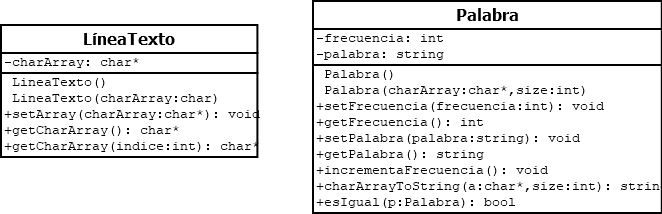
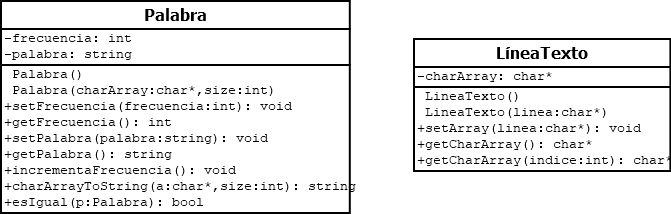
Update material.

Changed region(s): [[0.0, 0.0, 1.0, 1.0]]

diff --git a/practica1/Codigo/Palabra.cpp b/practica1/Codigo/Palabra.cpp
@@ -28,29 +28,11 @@ int Palabra::getFrecuencia()
 void Palabra::setPalabra(std::string palabra)
 {
     this->palabra = palabra;
-    setNumElem(palabra);
 }
 
 std::string Palabra::getPalabra()
 {
     return palabra;
-}
-
-// Metodos setter y getter para la variable "numElem"
-void Palabra::setNumElem(std::string palabra)
-{
-    // Declaracion de variable auxiliar
-    int contAux = 0;
-    // Bucle para contar la cantidad de letras en la cadena
-    for(char c : palabra)  {
-        contAux++;
-    }
-    this->numElem = contAux;
-}
-
-int Palabra::getNumElem()
-{
-    return numElem;
 }
 
 // Metodo que incrementa la frecuencia de la "Palabra" en 1

diff --git a/practica1/Codigo/Palabra.h b/practica1/Codigo/Palabra.h
@@ -5,7 +5,6 @@
 class Palabra
 {
     private:
-        int numElem;
         int frecuencia;
         std::string palabra;
     
@@ -17,8 +16,6 @@ class Palabra
         int getFrecuencia();
         void setPalabra(std::string palabra);
         std::string getPalabra();
-        void setNumElem(std::string palabra);
-        int getNumElem();
 
         void incrementaFrecuencia();
         std::string charArrayToString(char* a, int final);

diff --git a/practica1/Codigo/LineaTexto.h b/practica1/Codigo/LineaTexto.h
@@ -11,7 +11,7 @@ class LineaTexto
         LineaTexto();
         LineaTexto(char* linea);
 
-        void setCharArray(char* charArray);
+        void setCharArray(char* linea);
         char* getCharArray();
         char* getCharArray(int indice);
 };
